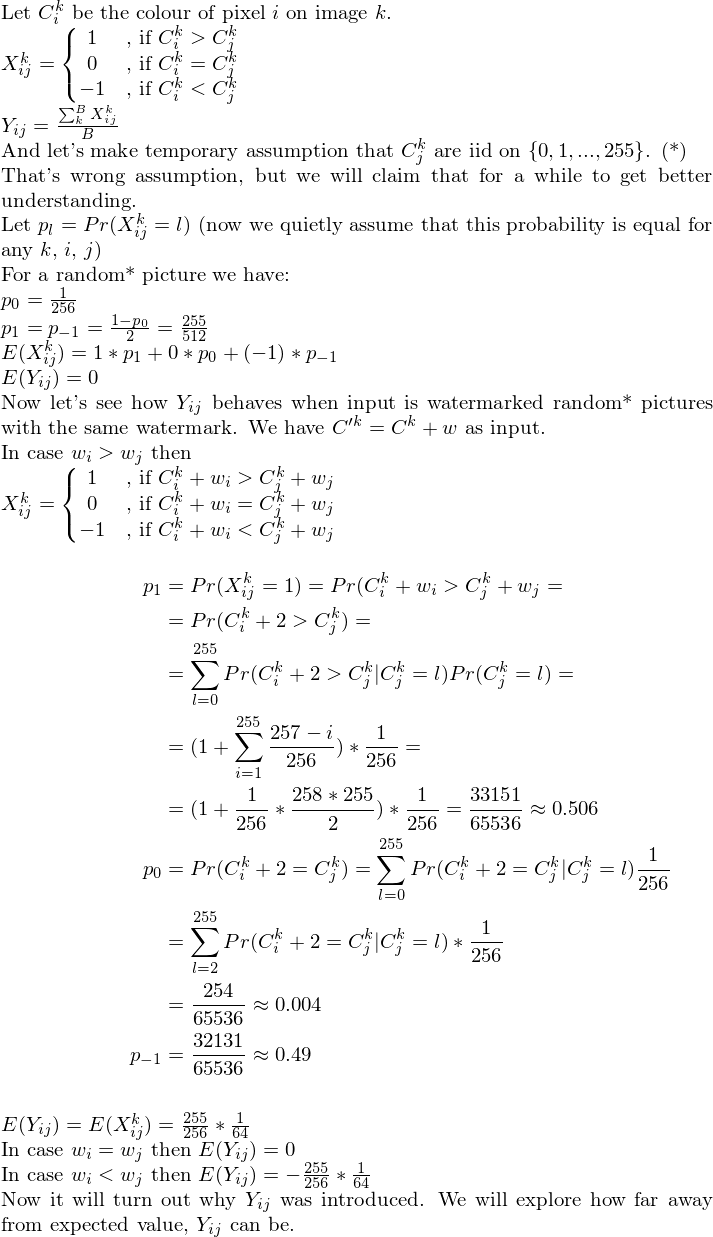
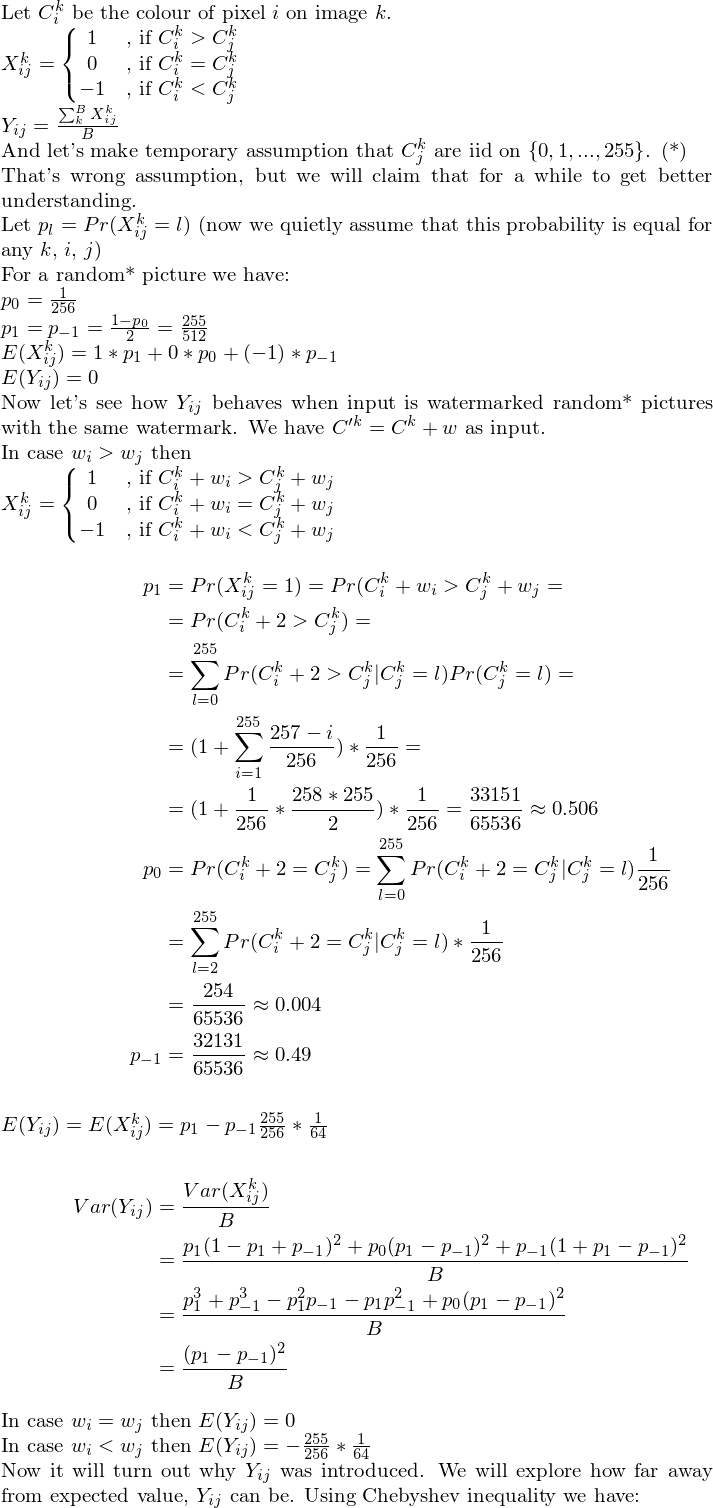
analysis

diff --git a/latex/analysis.tex b/latex/analysis.tex
@@ -40,9 +40,15 @@ p_0 &= Pr(C^k_i + 2 = C^k_j) = \sum_{l=0}^{255} Pr(C^k_i + 2 = C^k_j | C^k_j = l
     &= \frac{254}{65536} \approx 0.004\\
 p_{-1} &= \frac{32131}{65536} \approx 0.49
 \end{align*}\\
-$E(Y_{ij}) = E(X^k_{ij}) = \frac{255}{256}*\frac{1}{64}$\\
+$E(Y_{ij}) = E(X^k_{ij}) = p_1 - p_{-1}\frac{255}{256}*\frac{1}{64}$\\
+\begin{align*}
+Var(Y_{ij}) &= \frac{Var(X^k_{ij})}{B}\\
+            &= \frac{p_1(1-p_1+p_{-1})^2 + p_0(p_1-p_{-1})^2 + p_{-1}(1+p_1-p_{-1})^2}{B}\\
+            &= \frac{p_1^3 + p_{-1}^3 - p_1^2p_{-1} - p_1p_{-1}^2 + p_0(p_1-p_{-1})^2}{B}\\
+            &= \frac{(p_1-p_{-1})^2}{B}
+\end{align*}
 In case $w_i = w_j$ then $E(Y_{ij}) = 0$\\
 In case $w_i < w_j$ then $E(Y_{ij}) = -\frac{255}{256}*\frac{1}{64}$\\
 Now it will turn out why $Y_{ij}$ was introduced. We will explore how far away
-from expected value, $Y_{ij}$ can be.
+from expected value, $Y_{ij}$ can be. Using Chebyshev inequality we have:
 \end{document}
